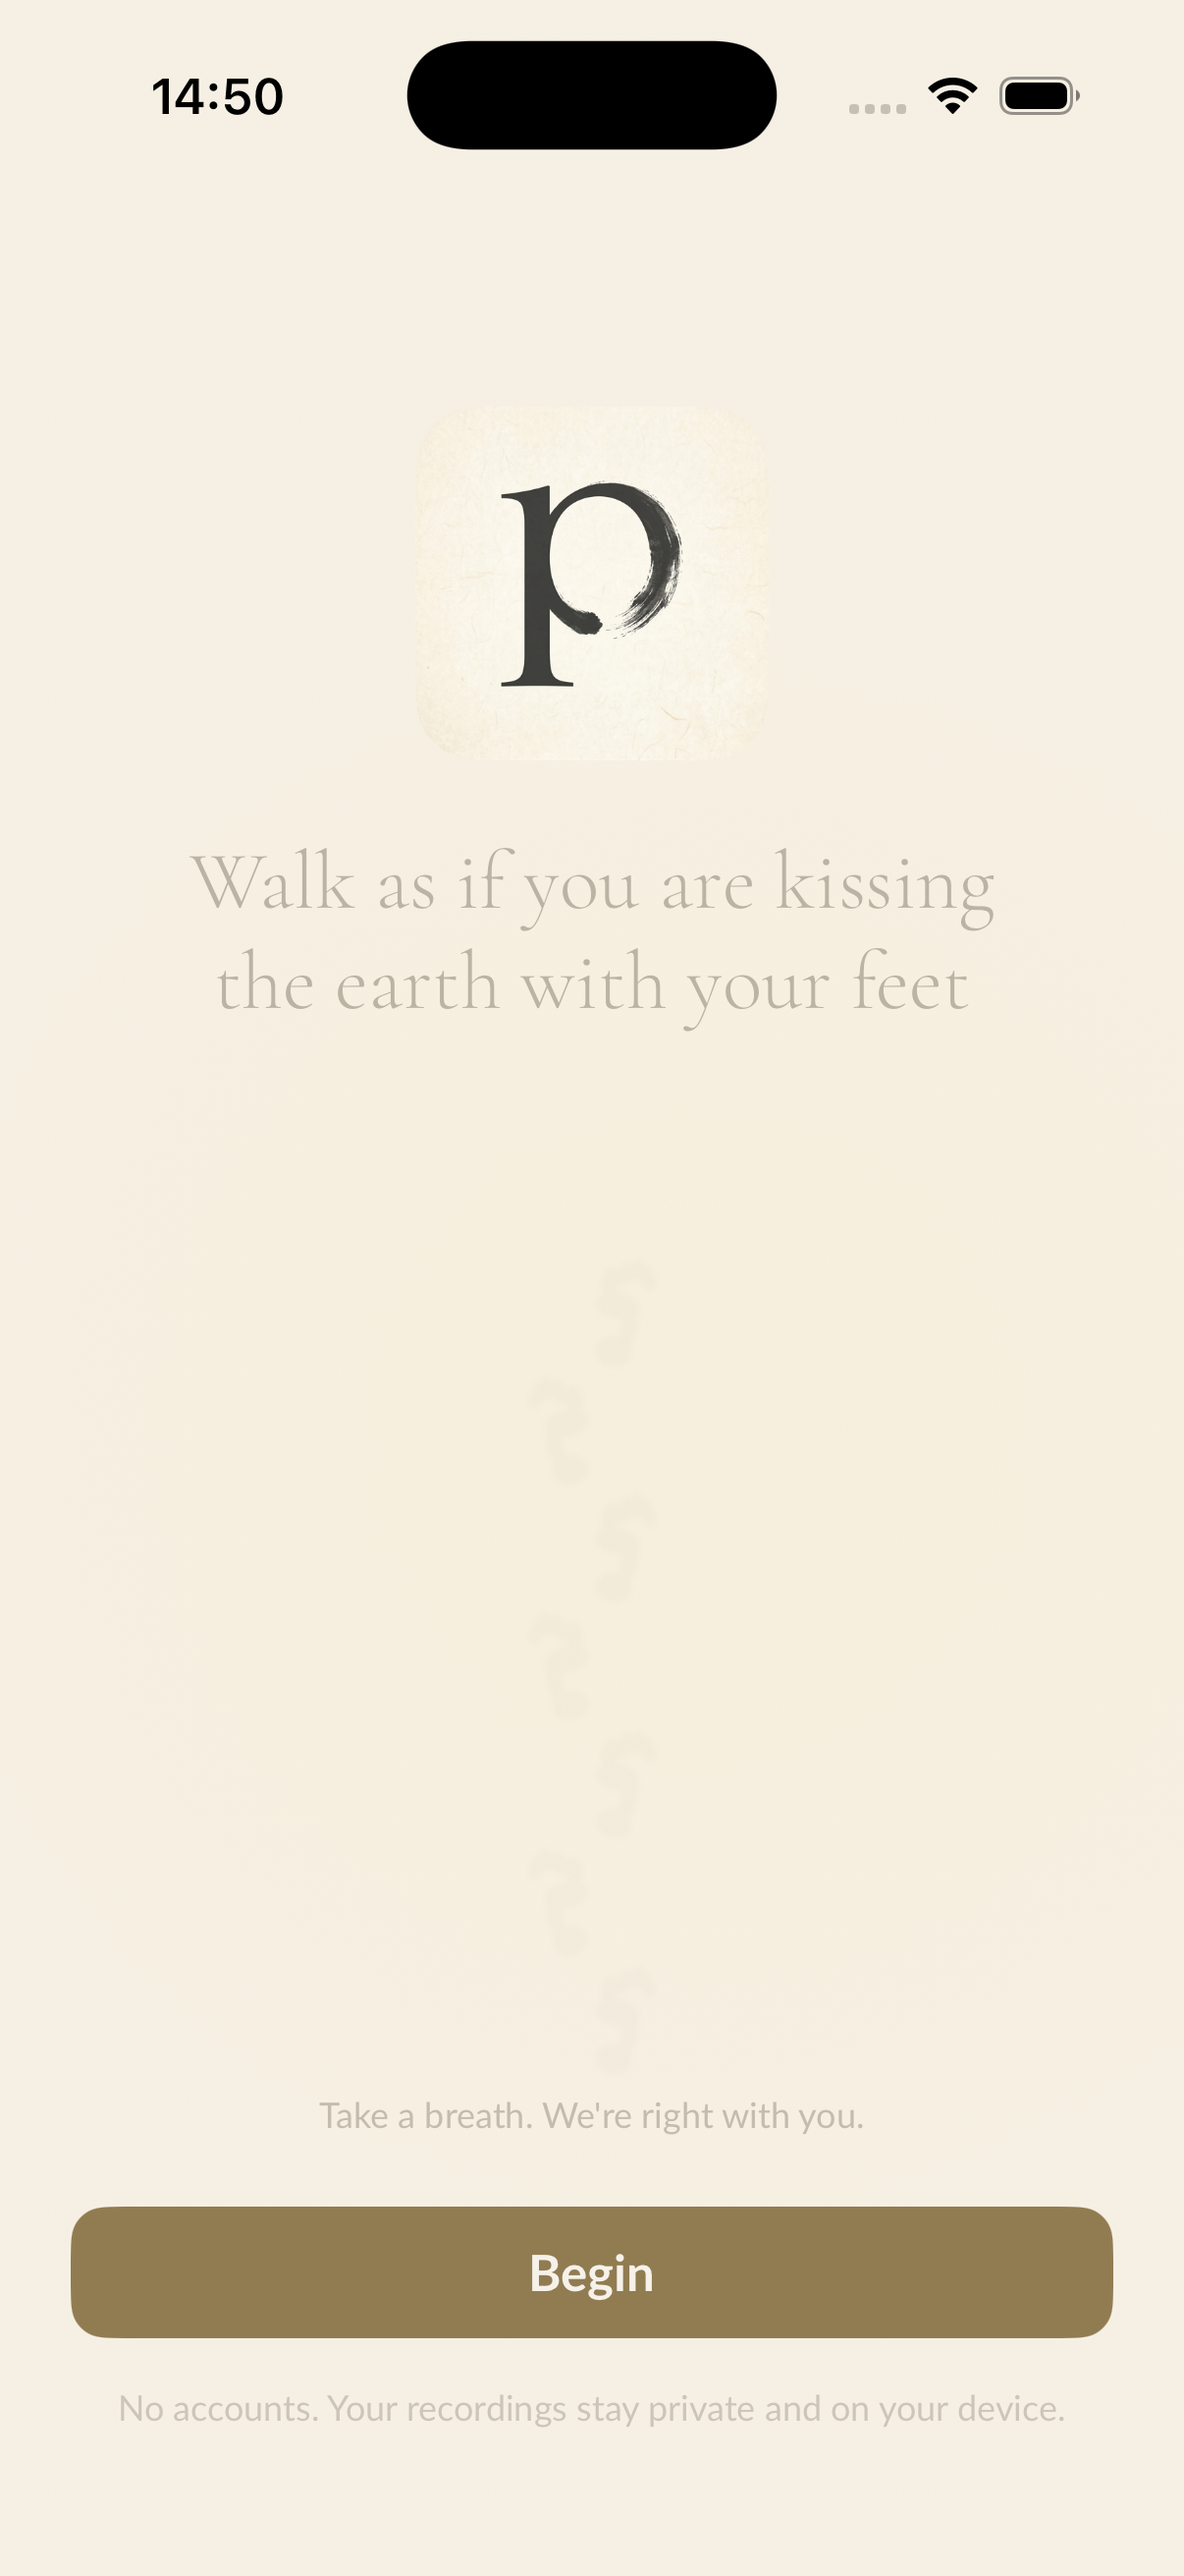
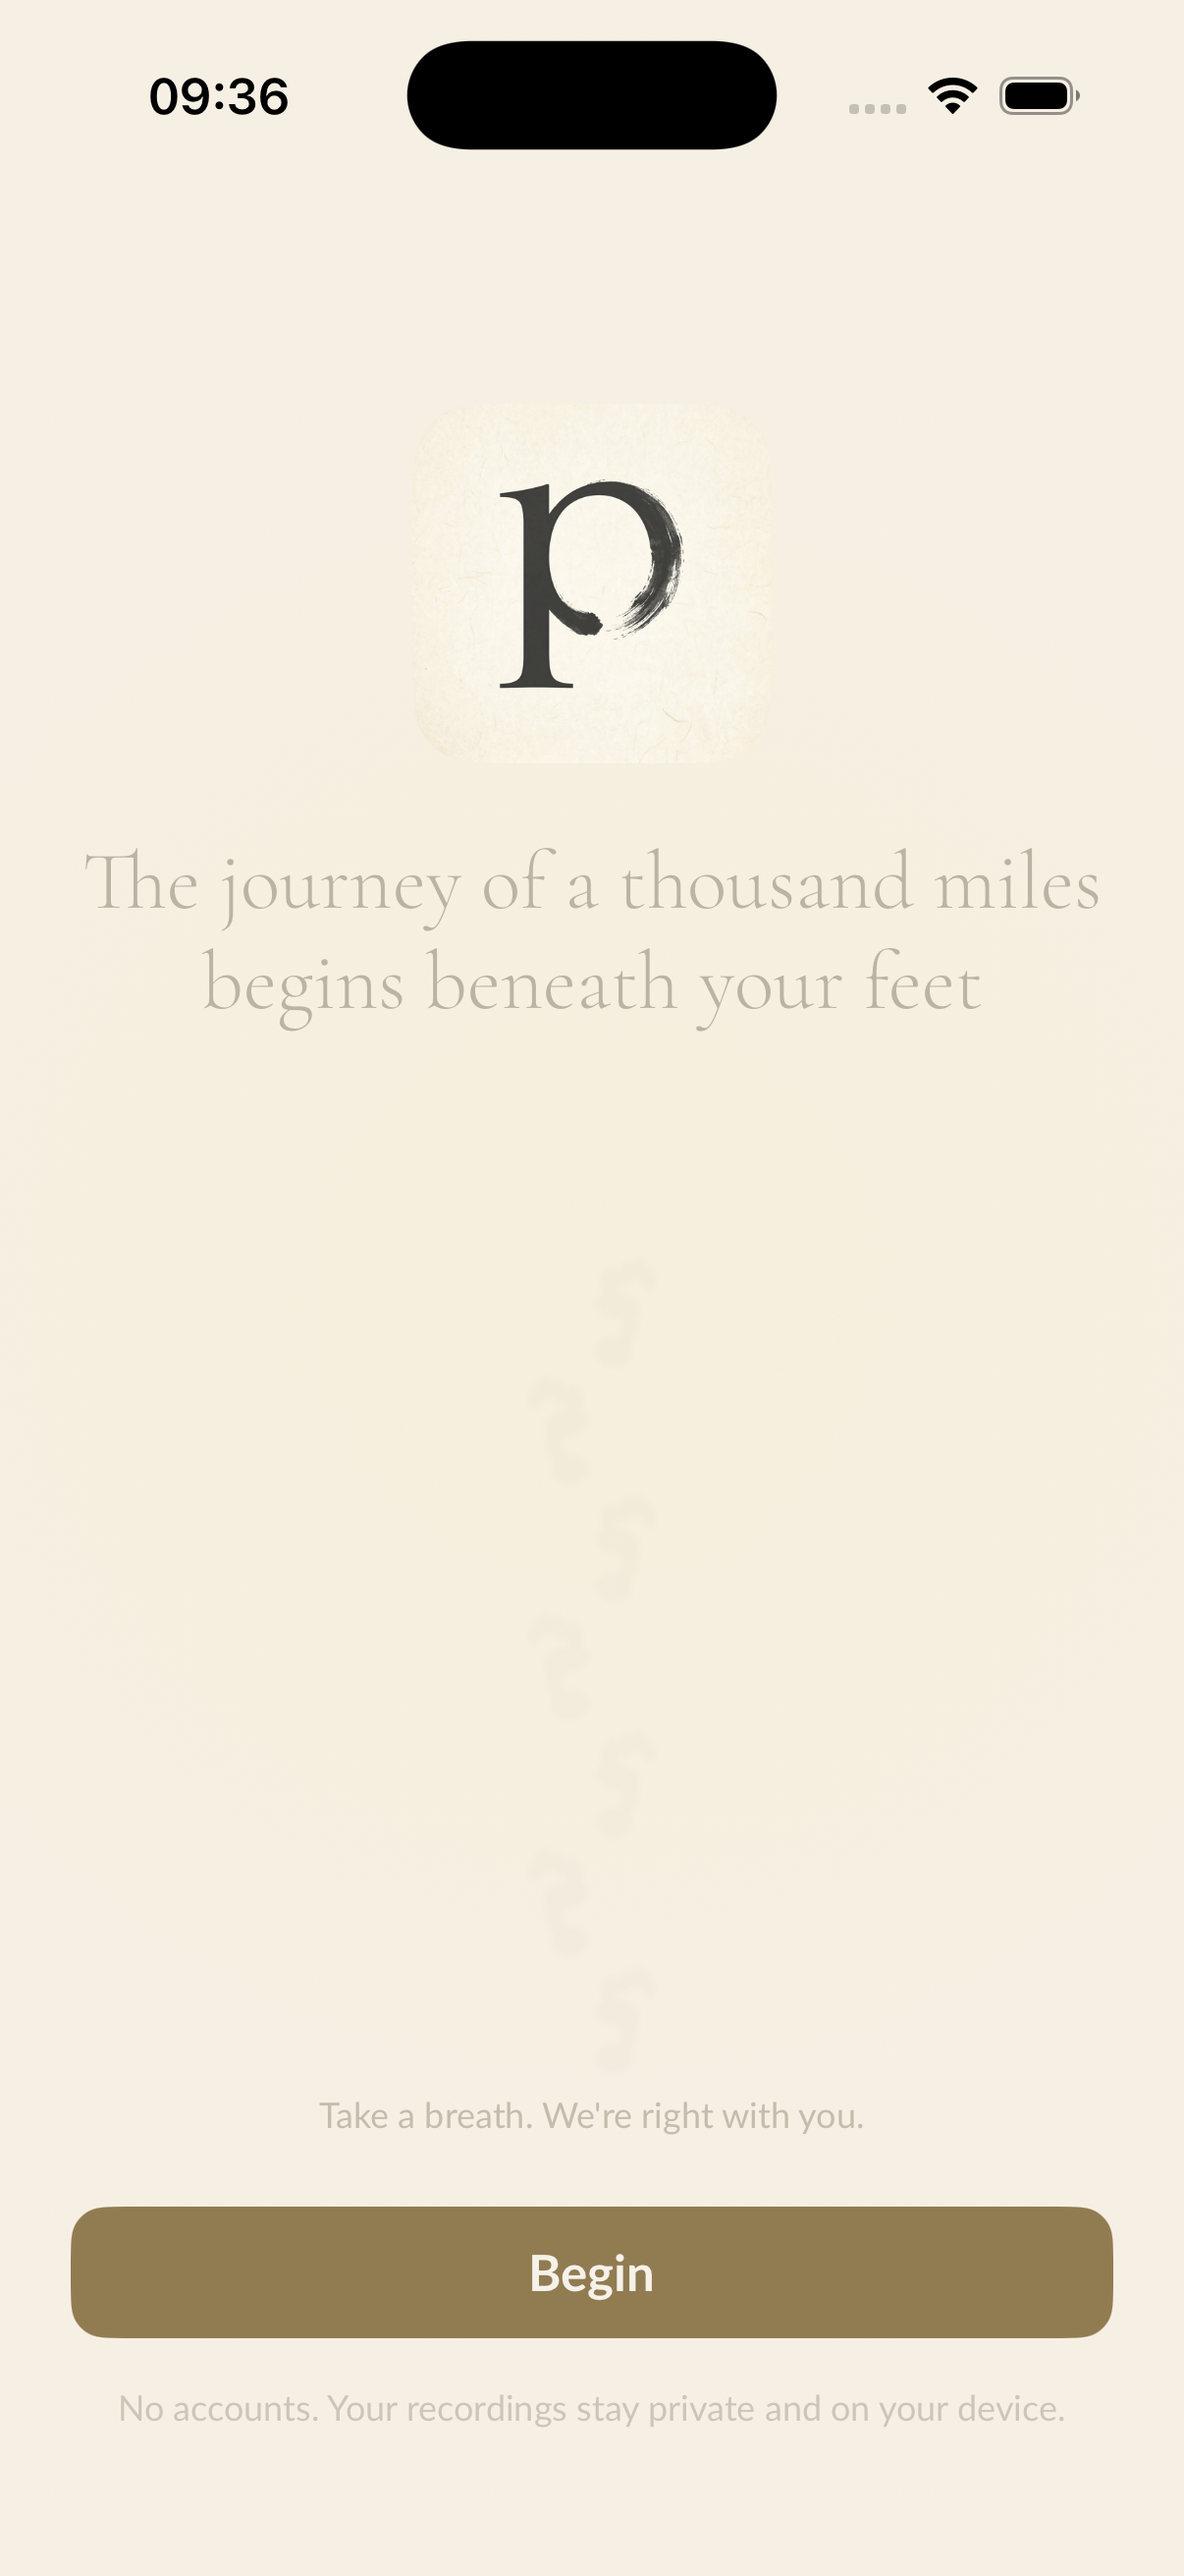
docs(parity): onboarding pass — launch.loading + welcome.entrance verdicts
Clean-wiped both platforms (iOS uninstall+reinstall; Android
adb-uninstall+reinstall — OnePlus OEM blocks pm clear/run-as rm).
Fresh blinded reviews:
- setup.launch.loading L=close-the-gap: Android black + generic ring
  spinner vs iOS parchment + brushstroke "p" + "Take a breath" cue
  (fundamental brand divergence; +slow ~40s fresh first-run). Needs a
  branded Android launch screen.
- setup.welcome.entrance L=close-the-gap: logo treatment (Android
  lighter serif "p"+thin ring vs iOS heavy brushstroke); copy/
  footprints/Begin/footer correspond. Verify Android logo asset.
setup.permissions.initial iOS captured; Android pairing blocked by
device nav thrash. Documents U5-completion reality: navigable scope
swept, remainder is state-preconditioned + device-limited (needs
dedicated state batches + U7 triage, not a single linear sweep).

Changed region(s): [[0.1227, 0.3398, 0.859, 0.4016], [0.1227, 0.0309, 0.2454, 0.0618], [0.5216, 0.1854, 0.5829, 0.2471]]

diff --git a/docs/parity/2026-05-15-parity-ledger.md b/docs/parity/2026-05-15-parity-ledger.md
@@ -30,8 +30,8 @@ Row id = `<area>.<screen>.<state>`. `iOS ref` is repo-relative under `../pilgrim
 | id | iOS ref | screen / state | android route/surface | appearance | anim | seed req | verdict |
 |---|---|---|---|---|---|---|---|
 | **Setup** ||||||||
-| setup.launch.loading | Scenes/Root/LaunchLoadingView.swift | Launch loading (breathing mark + cue) | MainActivity splash path | L/D/C | anim | none | unverified |
-| setup.welcome.entrance | Scenes/Setup/Welcome/WelcomeView.swift | Welcome ritual full sequence | ui/onboarding/WelcomeScreen.kt | L/D/C | anim | none | unverified |
+| setup.launch.loading | Scenes/Root/LaunchLoadingView.swift | Launch loading (breathing mark + cue) | MainActivity splash path | L/D/C | anim | wiped | L:close-the-gap (motion-pending); D/C:unverified |
+| setup.welcome.entrance | Scenes/Setup/Welcome/WelcomeView.swift | Welcome ritual full sequence | ui/onboarding/WelcomeScreen.kt | L/D/C | anim | wiped | L:close-the-gap (motion-pending); D/C:unverified |
 | setup.welcome.reduce-motion | Scenes/Setup/Welcome/WelcomeAnimationState.swift | Welcome, reduce-motion terminal frame | WelcomeScreen reduce-motion path | L/D/C | — | none | unverified |
 | setup.breath.transition | Scenes/Setup/BreathTransitionView.swift | Welcome→Permissions breath transition | (verify Android equivalent) | L/D/C | anim | none | unverified |
 | setup.permissions.initial | Scenes/Setup/Permissions/PermissionsView.swift | Permissions, nothing granted | ui/onboarding/PermissionsScreen.kt | L/D/C | — | none | unverified |
@@ -244,6 +244,19 @@ The pure-navigable no-seed rows are essentially swept (path modes, intention, op
 - `path.wander.vignette` → premise now **stale** (pre-walk vignette removed both platforms per the resolved celestial-pill disposition) — reconciliation: mark `stale` (iOS `WalkStartView` never had it; the U1 enumeration over-listed it).
 
 These are the **same friction class as seed-gated rows**: they need a scripted state-setup pass, made expensive by iOS-sim nav/tap flakiness (`idb` scroll-coord drift, alert/sheet layers idb can't reach). "Finish U5" therefore reduces to: a wiped-baseline onboarding pass + a live-walk pass + small state toggles — best run as dedicated state-setup batches (mirrors the deferred clean-seed-baseline decision), not per-row inline. Substantive logic for several state-gated rows is code-verifiable now (gates, chrome) even when pixels aren't.
+
+### Onboarding pass (2026-05-16 — both platforms clean-wiped: iOS uninstall+reinstall, Android `adb uninstall`+reinstall since OnePlus OEM blocks `pm clear`/`run-as rm`)
+- **setup.launch.loading — L `close-the-gap` (motion-pending)** (fresh blinded reviewer). evidence: `evidence/setup.launch.loading__L__{ios,android}.png`. observed-diff: **Android cold-launch shows a black background + generic white concentric-ring spinner; iOS shows a warm parchment field + faint centered brushstroke "p" mark + cue "Take a breath. We're right with you."** Fundamental brand/background/messaging divergence (not a motion artifact). Also: fresh-install first-run was very slow (~40s black-spinner before Welcome) — secondary perf concern. **Disposition needed (A5/U7):** implement a branded Android launch screen (parchment + "p" + cue; Android-12 SplashScreen theming + branded loading composable) — close-the-gap, non-trivial impl.
+- **setup.welcome.entrance — L `close-the-gap` (motion-pending)** (fresh blinded reviewer). evidence: `evidence/setup.welcome.entrance__L__{ios,android}.png`. observed-diff: **logo treatment — Android "p" tile renders a lighter serif "p" with a thin partial brush ring; iOS renders a heavier ink-filled brushstroke "p" filling the tile.** Quote copy, footprint trail, "Take a breath" line, full-width "Begin", privacy footer all correspond (Android footer wraps 2 lines = nav-inset/width, secondary). **Disposition:** verify whether Android `WelcomeScreen` uses a different/wrong logo asset vs the brushstroke `pilgrimLogo` (capturer code-check) before fixing — flagged close-the-gap.
+- **setup.permissions.initial:** iOS captured (`evidence/setup.permissions.initial__L__ios.png` — "Prepare for the journey" + 3 cards: walk/route, hear/voice [optional], count/steps [optional], each "Continue"); **Android pairing blocked** this pass by device nav thrash (flaky taps strayed into Android system Settings). Android capture deferred.
+- **setup.welcome.reduce-motion / setup.breath.transition / setup.permissions.partial+granted:** not captured — extra state (OS reduce-motion, transient, partial grants); deferred to a focused onboarding state-setup pass.
+
+## U5 completion reality (status, 2026-05-16)
+
+"U5 completely done" is **not achievable as a single continuous pass** on the current test rigs. Honest breakdown:
+- **Done / completable & done:** all pure-navigable no-seed rows (path modes, intention, options, feedback, sound, data-detail, appearance, about, settings card stack) captured+verdicted+(mostly)fixed; code-verifiable gates/chrome for state-gated rows (voiceguide gate, etc.) verified; 2 onboarding rows verdicted from a clean-wipe pass.
+- **Structurally blocked from full completion here:** the remaining no-seed rows are **state-preconditioned** (live-walk, voiceguide-on, overlays, onboarding sub-states, journal-empty) AND the test devices fight scripted state-setup — OnePlus ColorOS blocks `pm clear`/`run-as rm`/`screenrecord` (worked around via `adb uninstall`), and iOS-sim `idb` has scroll-coord drift + can't reach alert/sheet layers. Each state-preconditioned row's paired capture is an expensive, flaky, multi-step setup; doing all of them × L/D/C × motion in one pass is multi-session and partly device-limited.
+- **Net:** U5's navigable scope is swept; the remainder needs dedicated per-state batches (a live-walk pass, an onboarding-substate pass) and several findings are now close-the-gap items needing implementation + A5 disposition, not just capture. Recommend: triage the accumulated close-the-gaps (U7) and run targeted state batches rather than treating "U5 done" as a single linear sweep.
 
 ## Gate summary (computed at U7)
 
